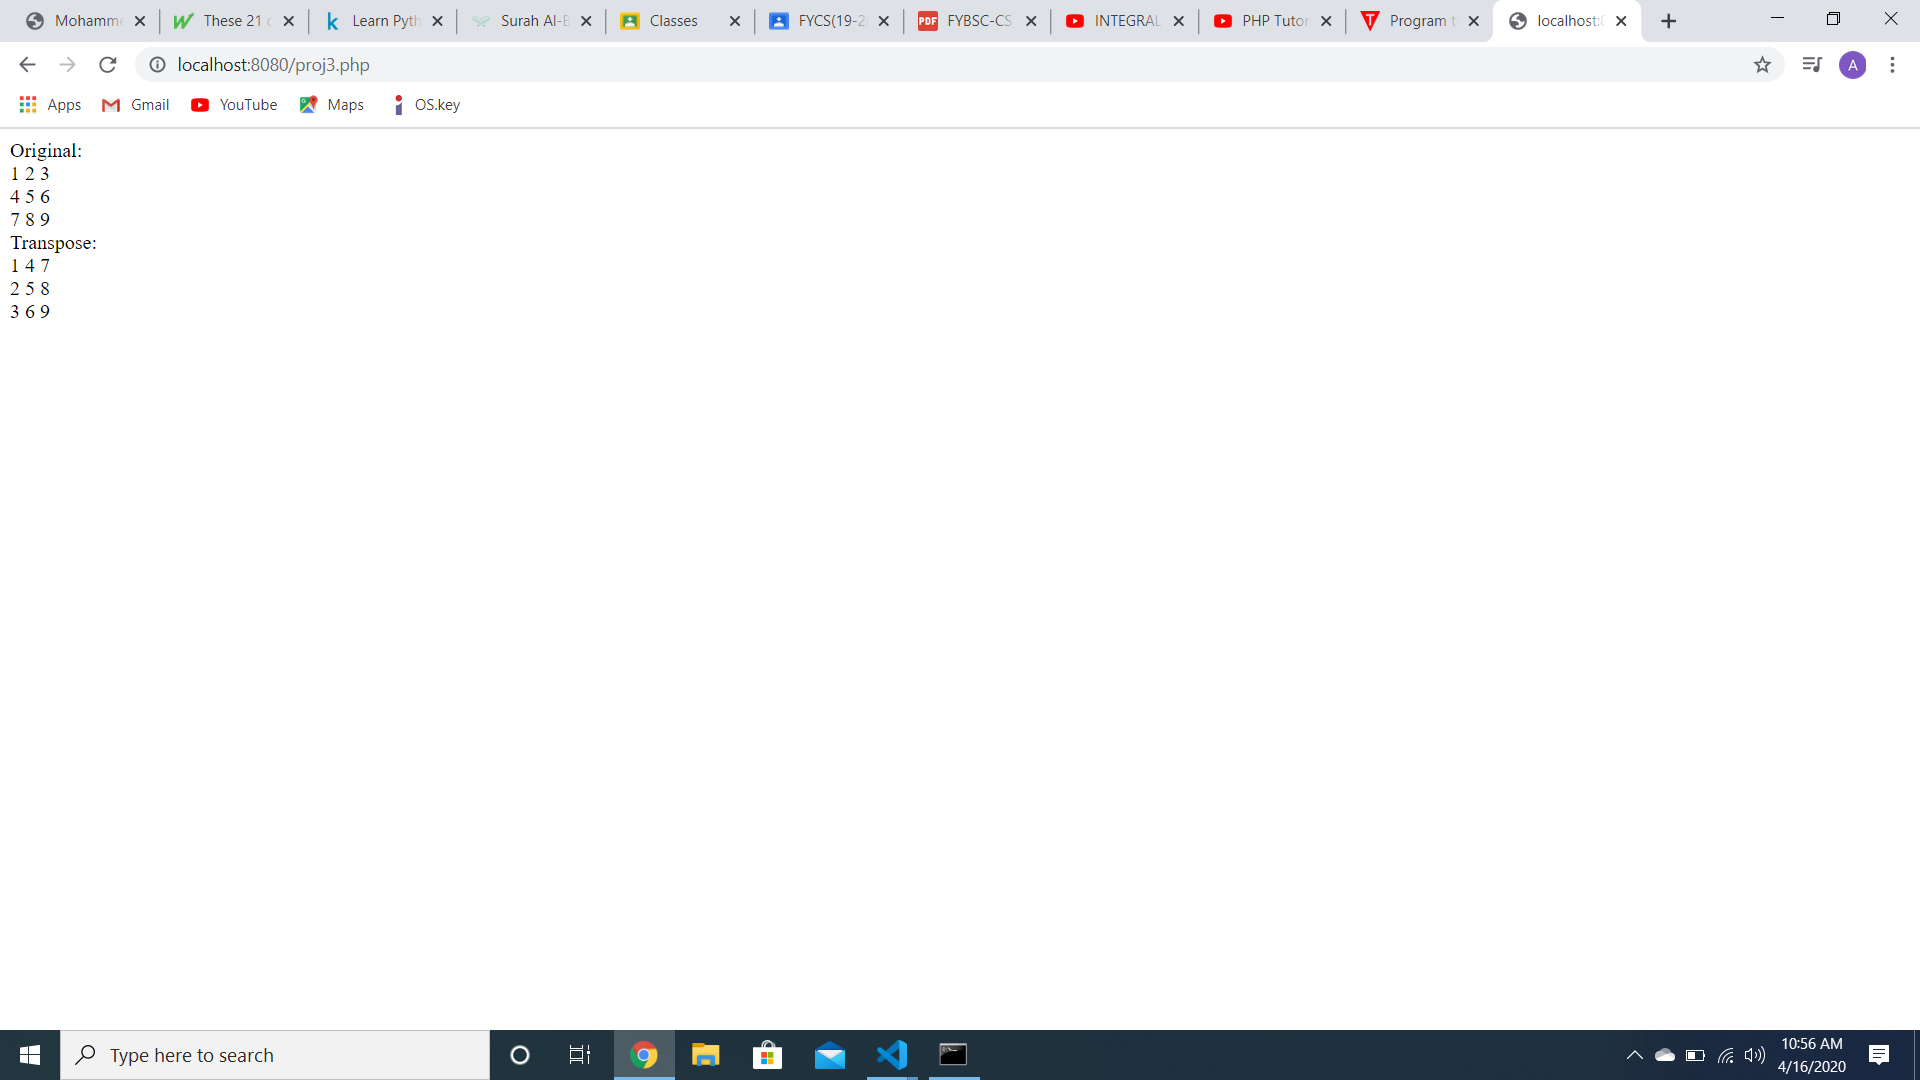
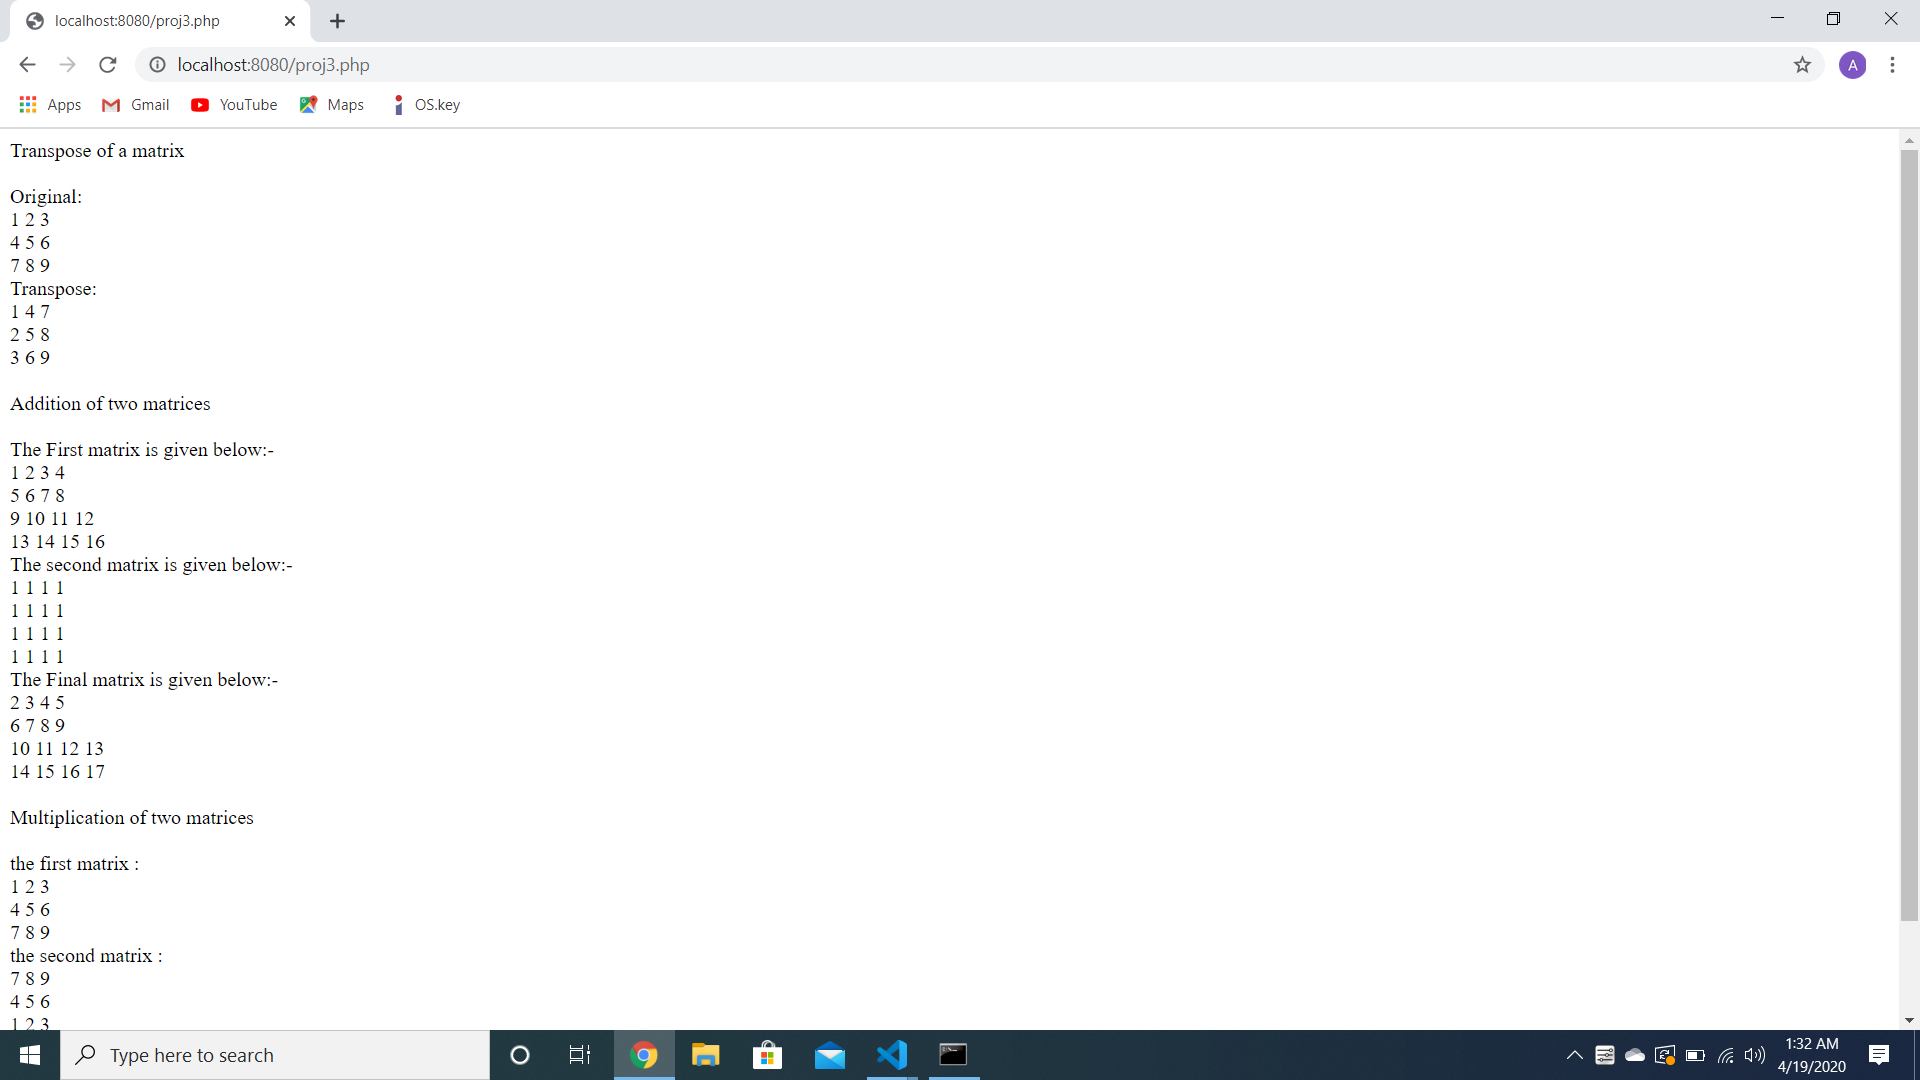
modified code

diff --git a/proj3.php b/proj3.php
@@ -1,4 +1,5 @@
 <?php
+echo "Transpose of a matrix<br/><br/>";
 $original_matrix = array(  
     array(1, 2, 3),  
     array(4, 5, 6),  
@@ -30,5 +31,82 @@ for($i = 0; $i < $n; $i++){
        print($tranpose_matrix[$i][$j] . " ");  
     }  
     print("<br>");  
-} 
+}
+
+echo "<br/>Addition of two matrices<br/>";
+
+echo "<br/>The First matrix is given below:-"."<br>";
+$a=array(array());// First two dimensional array declaration
+$b=array(array());//Second two dimensional array declaration
+$c=array(array());//Third two dimensional array declaration
+$rows=4;
+$cols=4;
+$m=1;
+$n=1;
+for($i=0;$i<$rows;$i=$i+1)
+{
+    for($j=0;$j<$cols;$j=$j+1)
+    {
+        $a[$i][$j]=$m;
+        echo $a[$i][$j]." ";
+        $m=$m+1;
+    }
+    echo "<br>";
+}
+echo "The second matrix is given below:-<br>";
+for($i=0;$i<$rows;$i=$i+1)
+{
+    for($j=0;$j<$cols;$j=$j+1)
+    {
+        $b[$i][$j]=$n;
+        echo $b[$i][$j]." ";
+        $n=$n*1;
+    }
+    echo "<br>";
+}
+echo "The Final matrix is given below:-"."<br>";
+for($i=0;$i<$rows;$i=$i+1)
+{
+    for($j=0;$j<$cols;$j=$j+1)
+    {
+        $c[$i][$j]=$a[$i][$j]+$b[$i][$j]; 
+        echo $c[$i][$j]." ";
+    }
+    echo "<br>";
+}
+        
+echo "<br/>Multiplication of two matrices<br/><br/>";
+$a = array(array(1,2,3),array(4,5,6),array(7,8,9));
+$b = array(array(7,8,9),array(4,5,6),array(1,2,3));
+$m=count($a);
+$n=count($a[2]);
+$p=count($b);
+$q=count($b[2]);
+echo "the first matrix :"."<br/>";
+for ($row = 0; $row < $m; $row++) {
+    for ($col = 0; $col < $n; $col++)
+        echo " ".$a[$row][$col];
+    echo "<br/>";
+}
+echo "the second matrix :"."<br/>";
+for ($row = 0; $row < $p; $row++) {
+    for ($col = 0; $col < $q; $col++)
+        echo " ".$b[$row][$col];
+    echo "<br/>";
+}
+echo " The multiplication of matrices: <br/>";
+$result=array();
+for ($i=0; $i < $m; $i++) {
+    for($j=0; $j < $q; $j++){
+        $result[$i][$j] = 0;
+    for($k=0; $k < $n; $k++)
+        $result[$i][$j] += $a[$i][$k] * $b[$k][$j];
+}
+}
+for ($row = 0; $row < $m; $row++) {
+    for ($col = 0; $col < $q; $col++){
+        echo " ".$result[$row][$col];
+    }
+    echo "<br/>";
+}
 ?>
